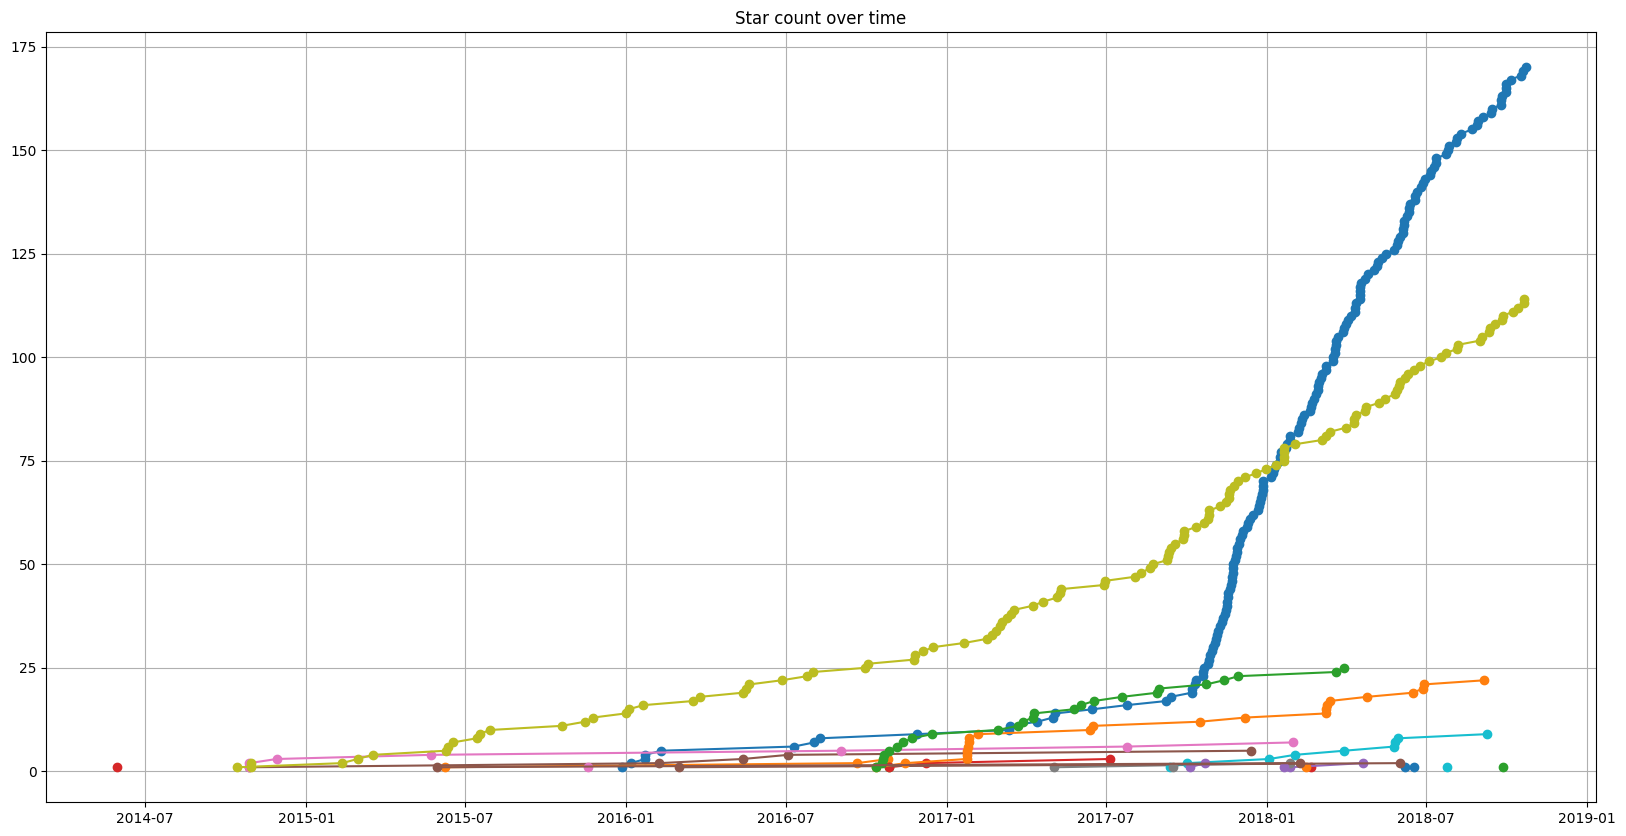
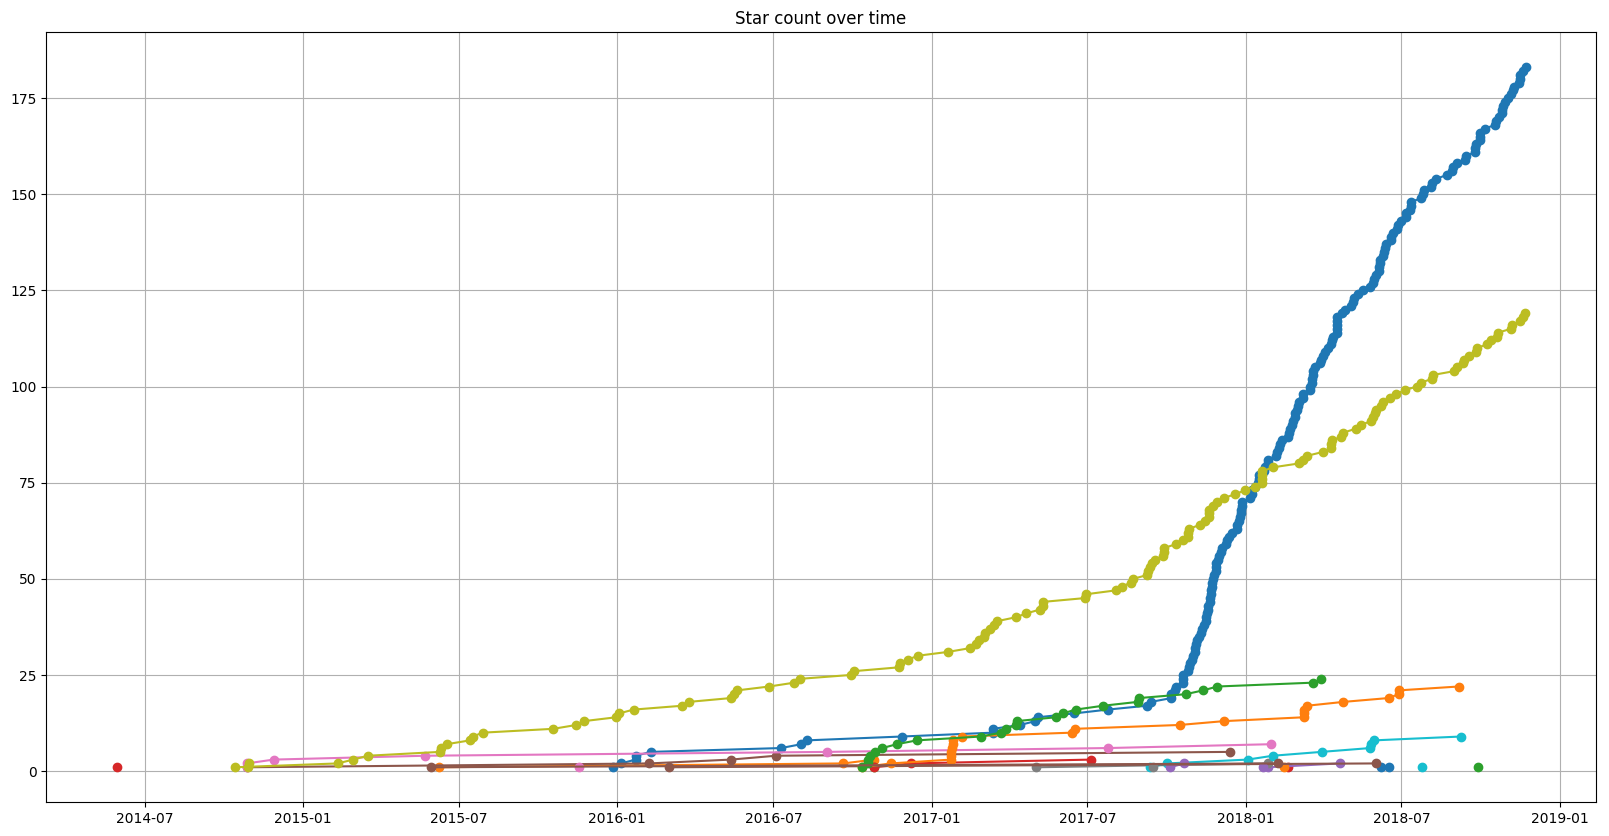
update

diff --git a/README.md b/README.md
@@ -3,7 +3,7 @@
 
 ![star plot](https://raw.github.com/FabriceSalvaire/github-map/master/star-plots/all.png)
 
-Overall stars: 381 :star:
+Overall stars: 398 :star:
 
 ## Python Packages
 
@@ -45,17 +45,17 @@ Overall stars: 381 :star:
 
 ## Python Tools for Developers
 
-* [CodeReview](https://github.com/FabriceSalvaire/CodeReview) 170 :star:</br>
+* [CodeReview](https://github.com/FabriceSalvaire/CodeReview) 183 :star:</br>
 
    CodeReview is a Git GUI tool to perform code review (Diff Viewer) written in Python3 and Qt5.
 
-   Updated on 2018-10-22
+   Updated on 2018-11-22
 
 * [github-map](https://github.com/FabriceSalvaire/github-map)
 
    A summary of my projects on Github (using API and Python)
 
-   Updated on 2018-09-25
+   Updated on 2018-10-24
 
 * [python-memo](https://github.com/FabriceSalvaire/python-memo)
 
@@ -181,11 +181,11 @@ Overall stars: 381 :star:
 
 ## Python for Electronic
 
-* [PySpice](https://github.com/FabriceSalvaire/PySpice) 114 :star:</br>
+* [PySpice](https://github.com/FabriceSalvaire/PySpice) 119 :star:</br>
 
    Simulate electronic circuit using Python and the Ngspice / Xyce simulators
 
-   Updated on 2018-10-21
+   Updated on 2018-11-21
 
 * [PyCpuSimulator](https://github.com/FabriceSalvaire/PyCpuSimulator) 2 :star:</br>
 
@@ -307,11 +307,11 @@ Overall stars: 381 :star:
 
 ## Web
 
-* [redmine-improved-theme](https://github.com/FabriceSalvaire/redmine-improved-theme) 25 :star:</br>
+* [redmine-improved-theme](https://github.com/FabriceSalvaire/redmine-improved-theme) 24 :star:</br>
 
    Redmine theme forked from the vanilla Redmine theme and converted to SASS
 
-   Updated on 2018-10-16
+   Updated on 2018-11-16
 
 * [css-demo](https://github.com/FabriceSalvaire/css-demo)
 
